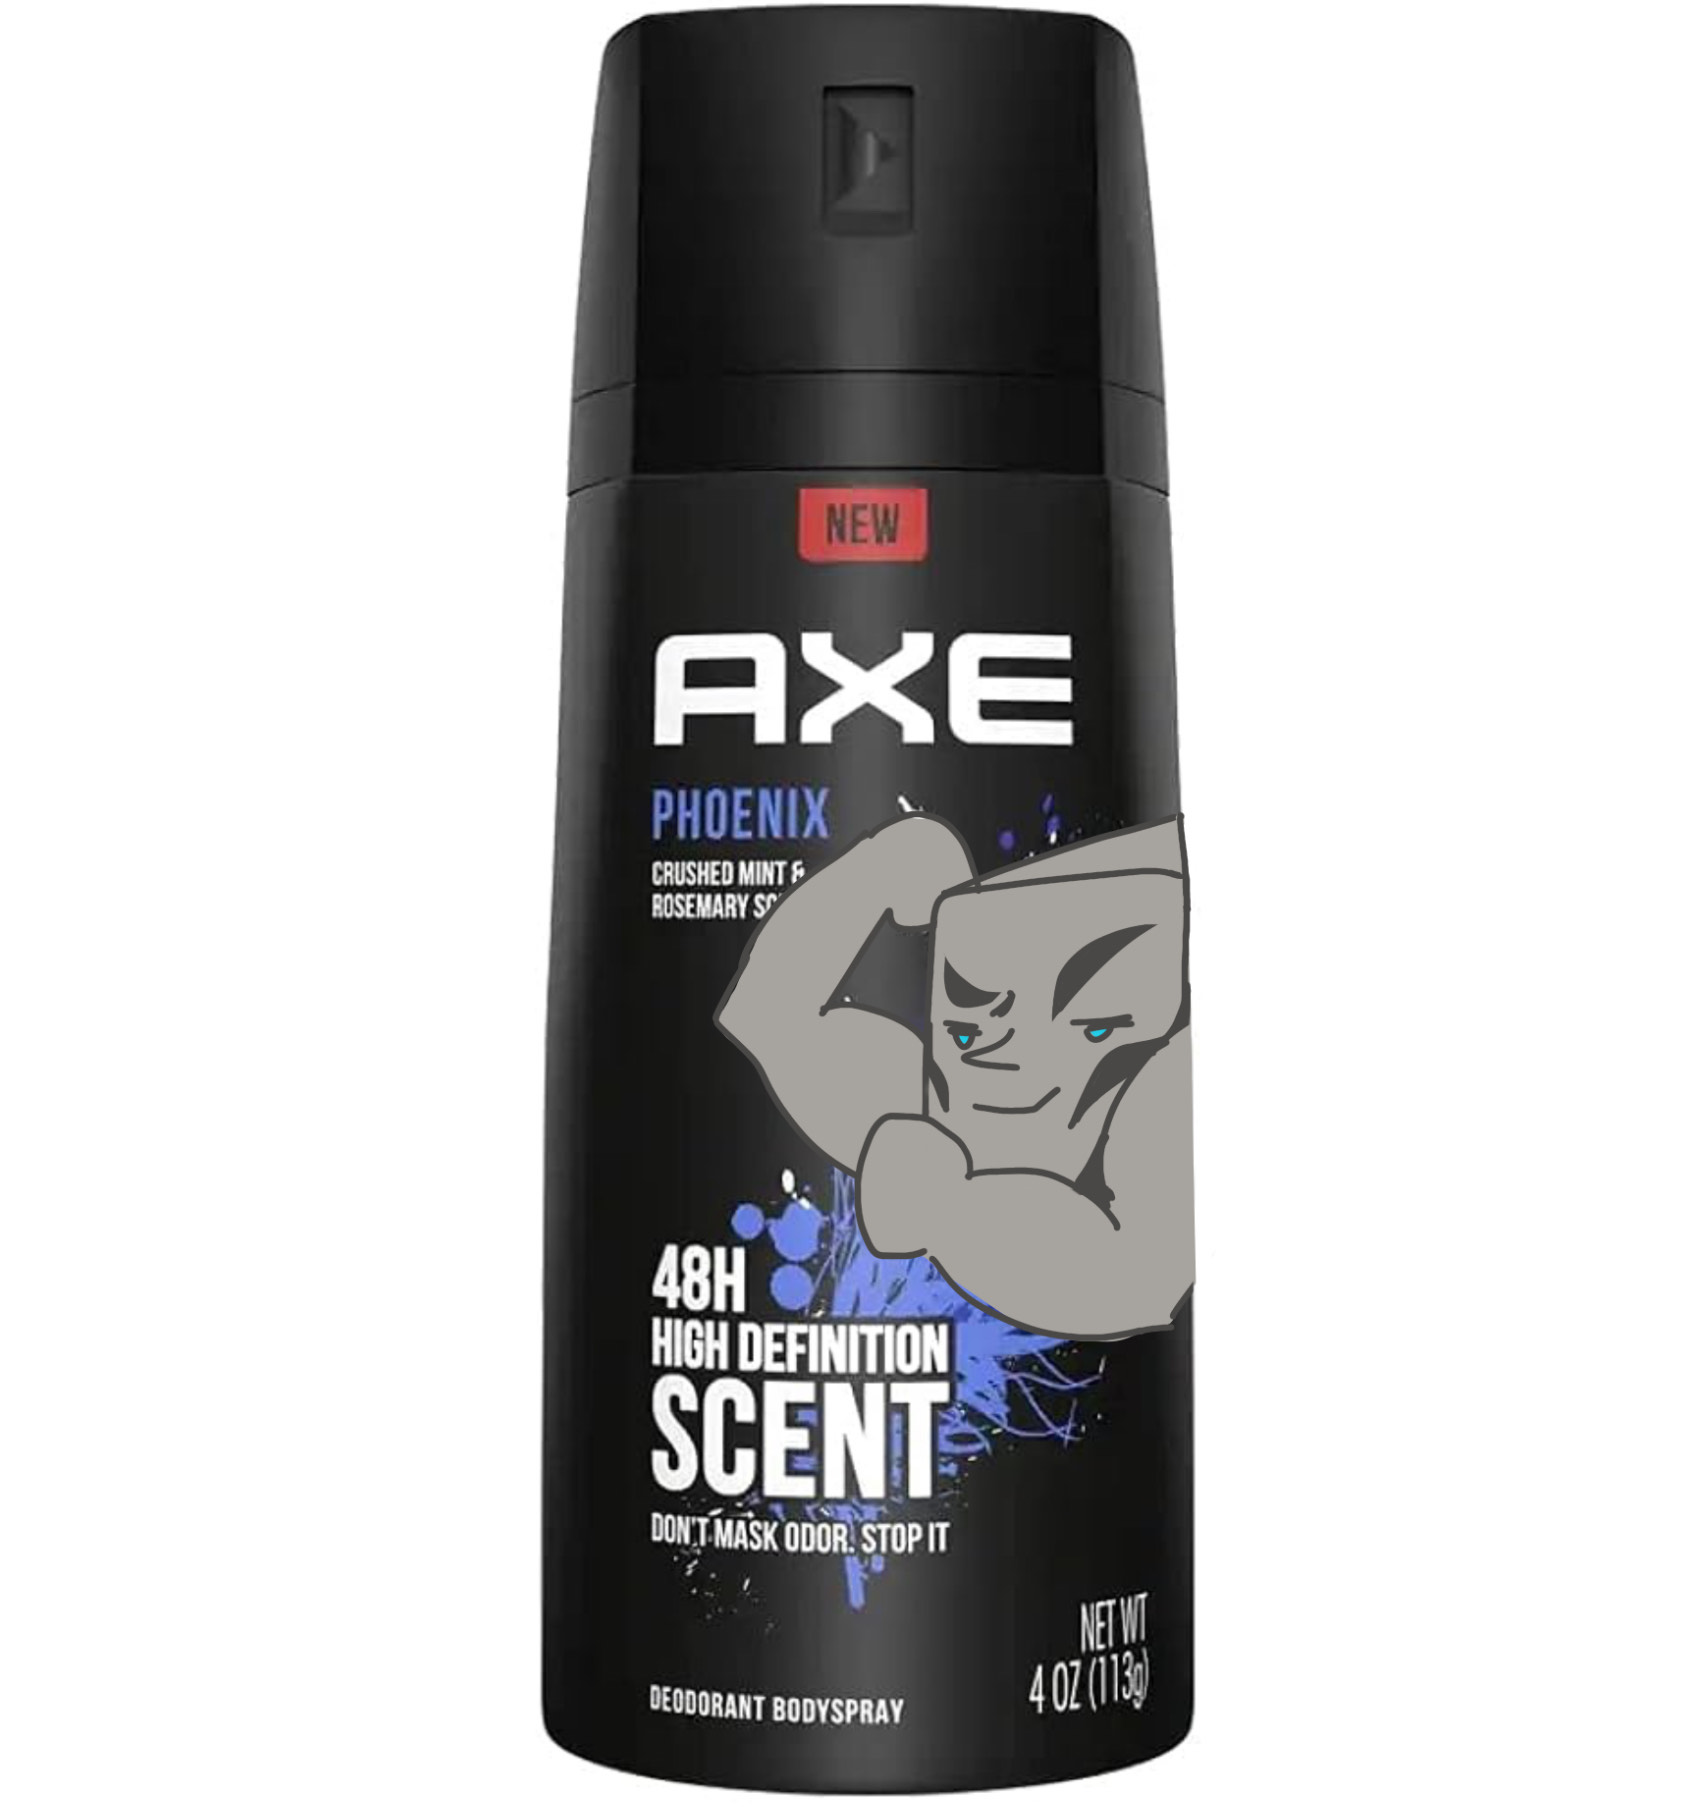
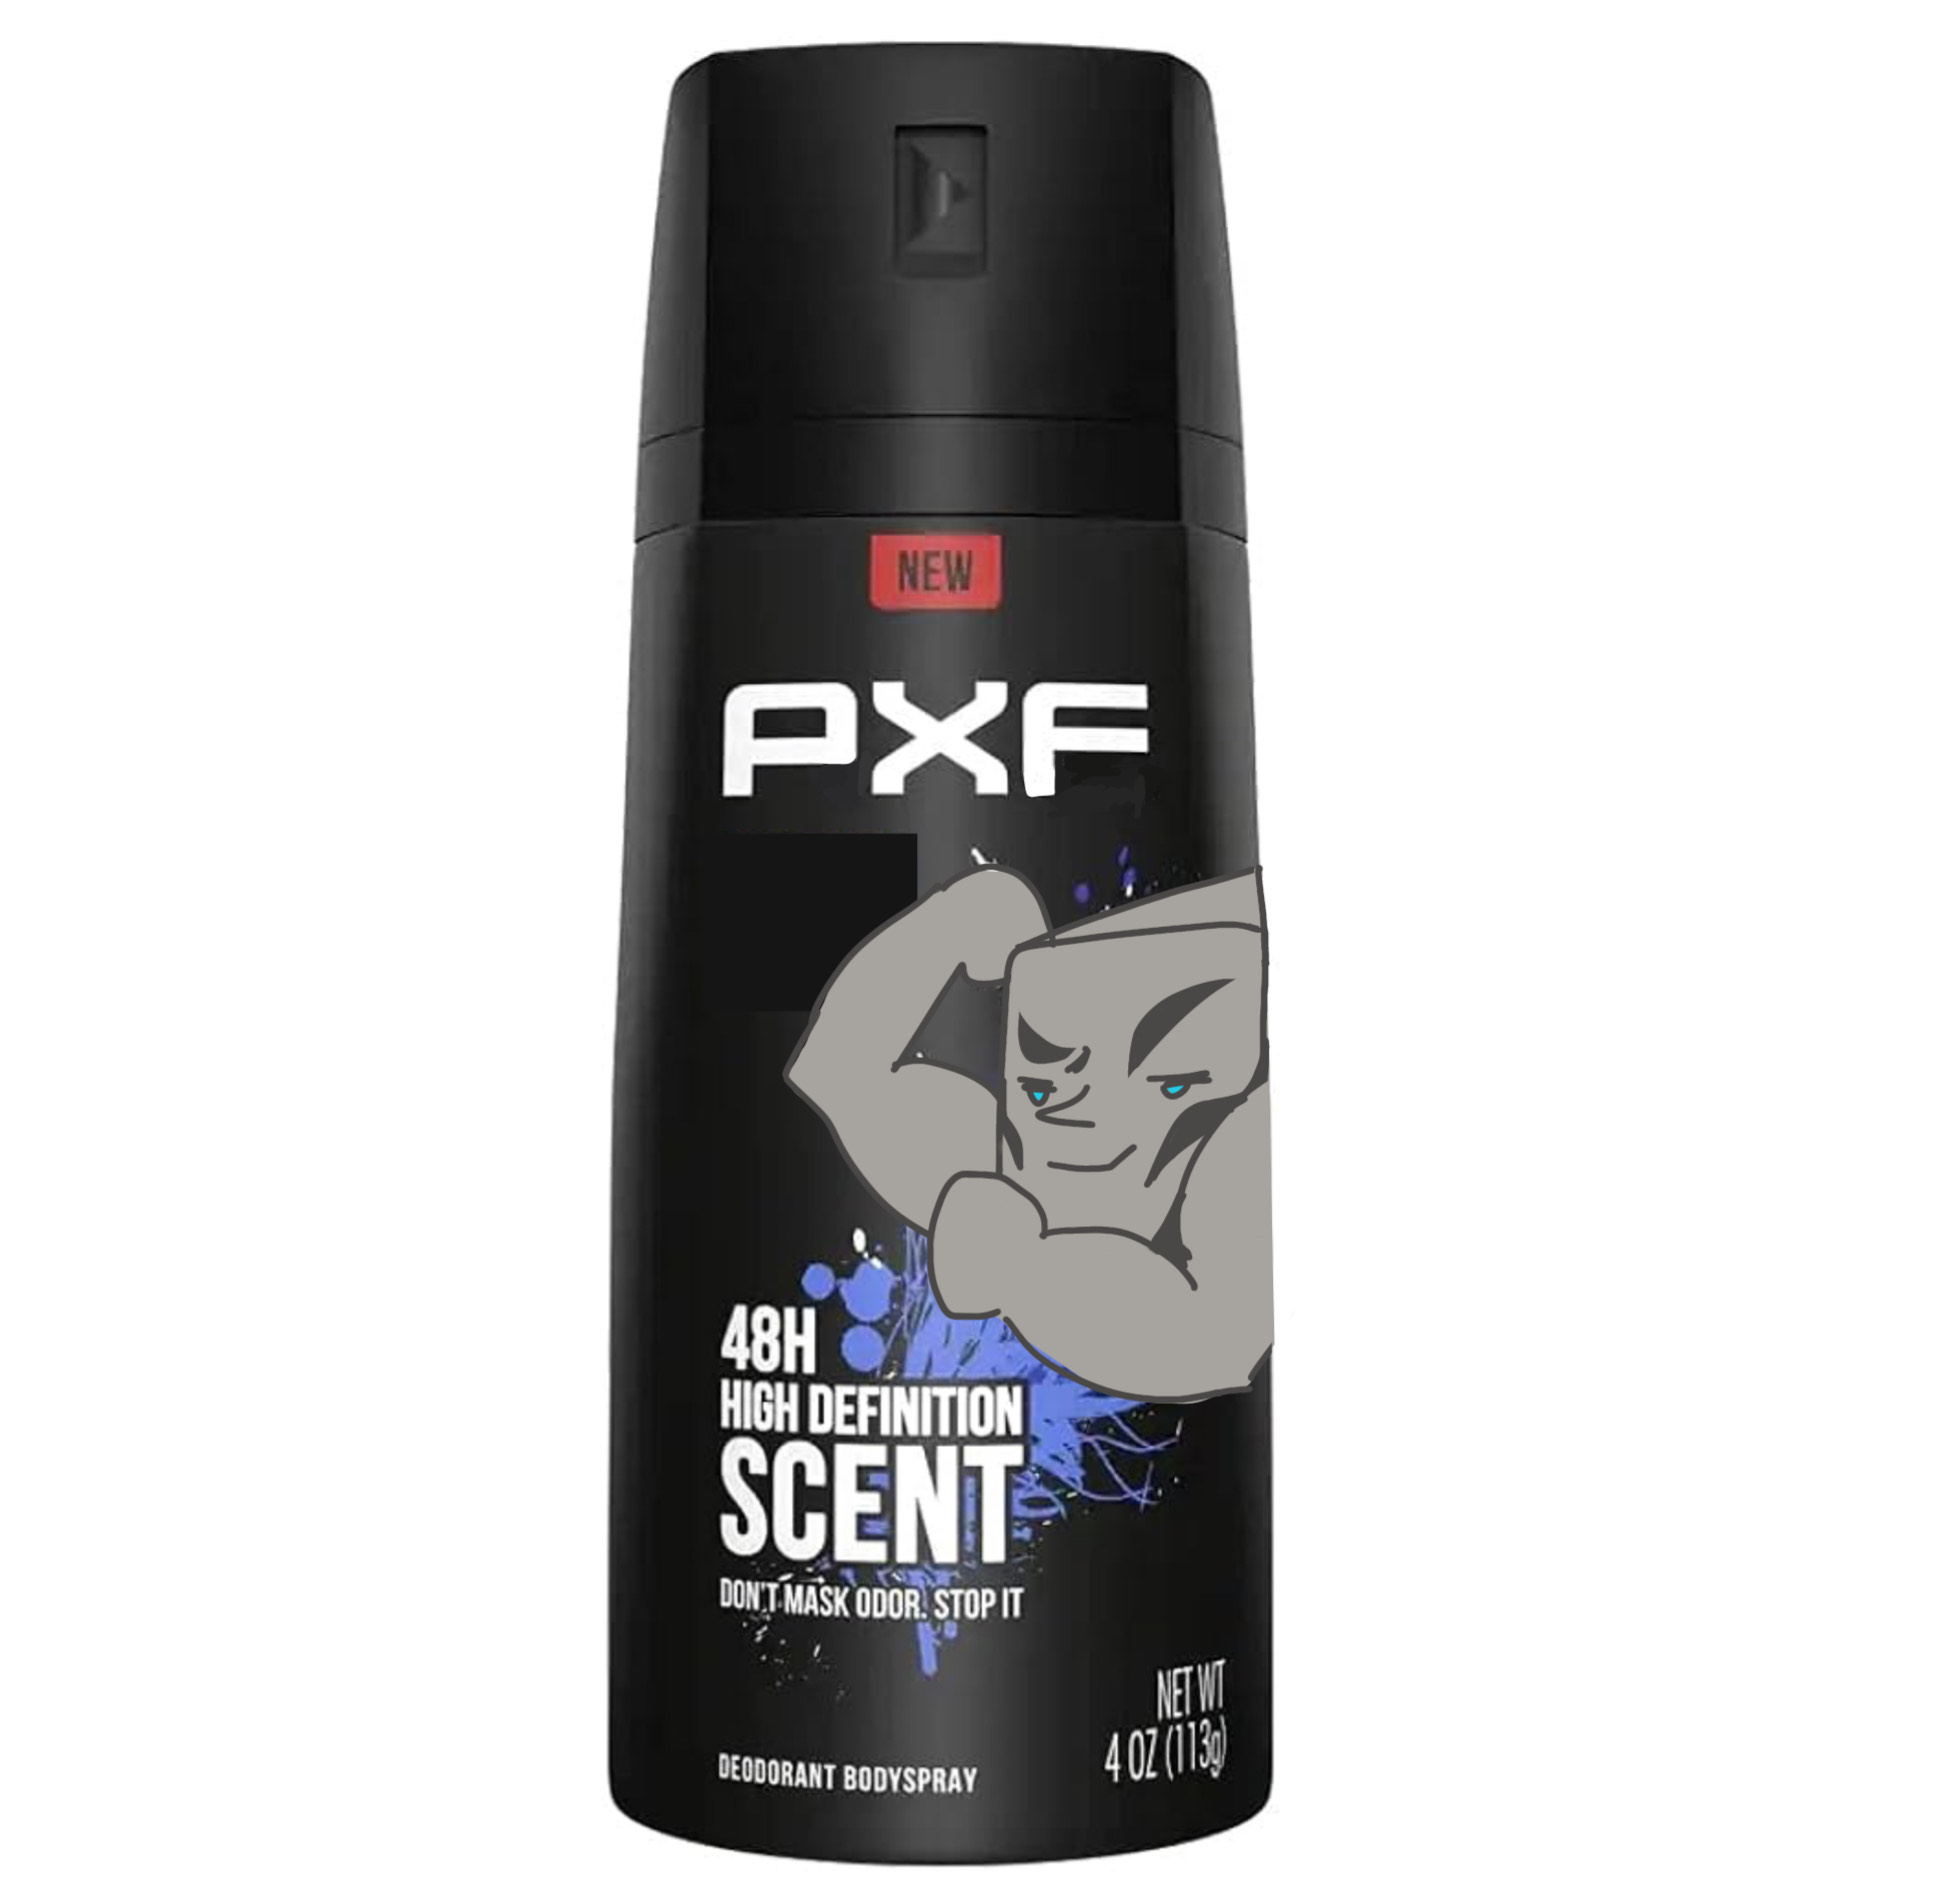
replaced daddys, changed axe so we don't get sued

Changed region(s): [[0.3071, 0.0, 0.7064, 1.0]]

diff --git a/robots/mommy-issues.html b/robots/mommy-issues.html
@@ -118,7 +118,7 @@
     <p>Aaron Harnish, Ethan Hernandez, Angela Zhu</p>
 
     <h2>Description</h2>
-    <p>In the age of artificial intelligence, Daddy Issues was designed to crush opponents before the fight
+    <p>In the age of artificial intelligence, Mommy Issues was designed to crush opponents before the fight
       even begins. Armed with a roughishly handsome face and sculpted cheekbones, opponents swoon as soon 
       as they see him in the arena and refuse to fight such a perfect being. His past trauma with his 
       mother and (ex) girlfriend aside, Mommy Issues is the Ken of 3lb bots. He's a 10.</thead></p>
@@ -136,45 +136,6 @@
       <li>Mommy Issues owns an (authentic) Rolex that sprays cologne to attract other robots. </li>
       <li>Mommy Issues has a relationship advice page in the Cornell Daily Sun.</li>
     </ul>
-
-    <!-- Fights -->
-    <h2>Fights:</h2>
-    <div class="robot-fights-box">
-      <table class="robot-fights">
-        <table class="robot-fights">
-          <thead>
-            <tr>
-              <th>Event</th>
-              <th>Opponent</th>
-              <th>Result</th>
-              <th>By</th>
-              <th>Video</th>
-              <th>Length (s)</th>
-            </tr>
-          </thead>
-          <tbody>
-            <tr>
-              <td>event</td>
-              <td>all artificially intelligent bots</td>
-              <td>Win</td>
-              <td>KO</td>
-              <td><a href="https://youtu.be/wf528BQr0eA?t=5239">Link</a></td>
-              <td>2</td>
-            </tr>
-          </tbody>
-        </table>
-
-        <div class="featured-fight">
-          <h2>Featured Fight:</h2>
-          <div class="featured-fight-video-box">
-            <!-- Add ?start=seconds for start time of video -->
-            <iframe src="https://www.youtube.com/embed/GNNfIA1xNQs?start=165"
-              title="Mighty Mommy Issues stomps through Mechs - Mechwarrior Online The Daily Dose #1156" frameborder="0"
-              allow="accelerometer; autoplay; clipboard-write; encrypted-media; gyroscope; picture-in-picture"
-              allowfullscreen></iframe>
-          </div>
-        </div>
-    </div>
 
     <!-- Media -->
     <h2>Media:</h2>
